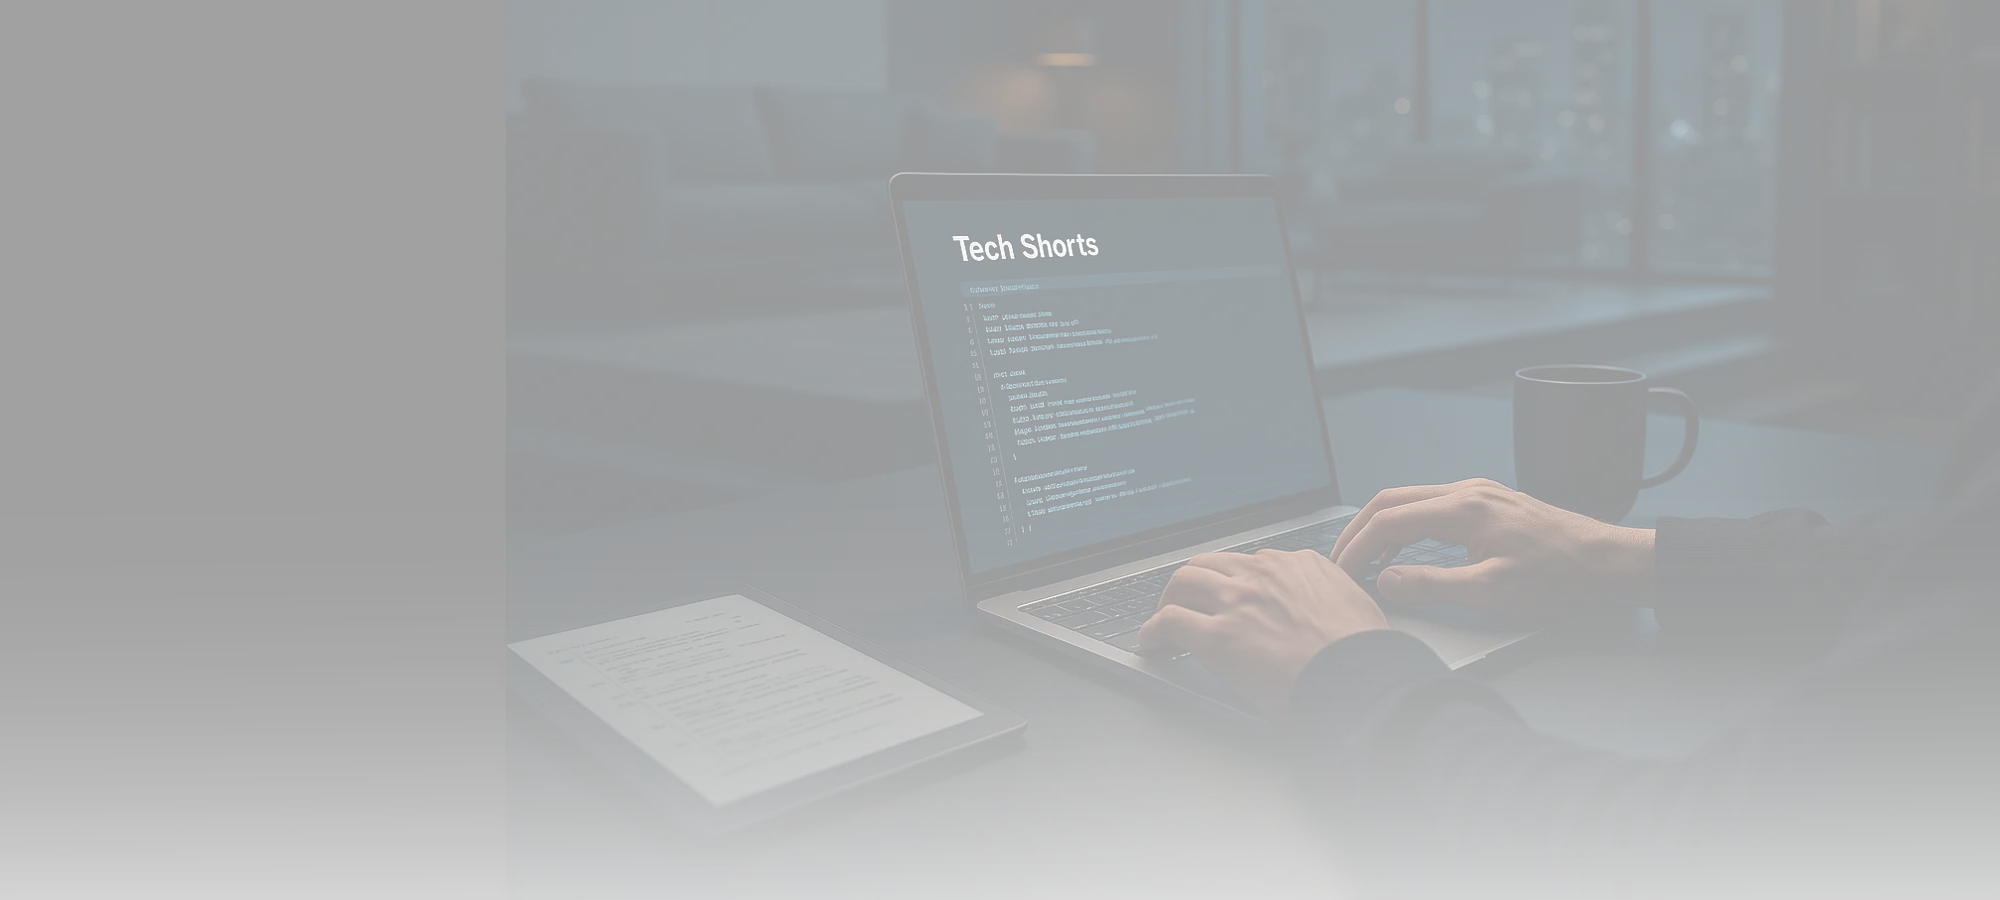
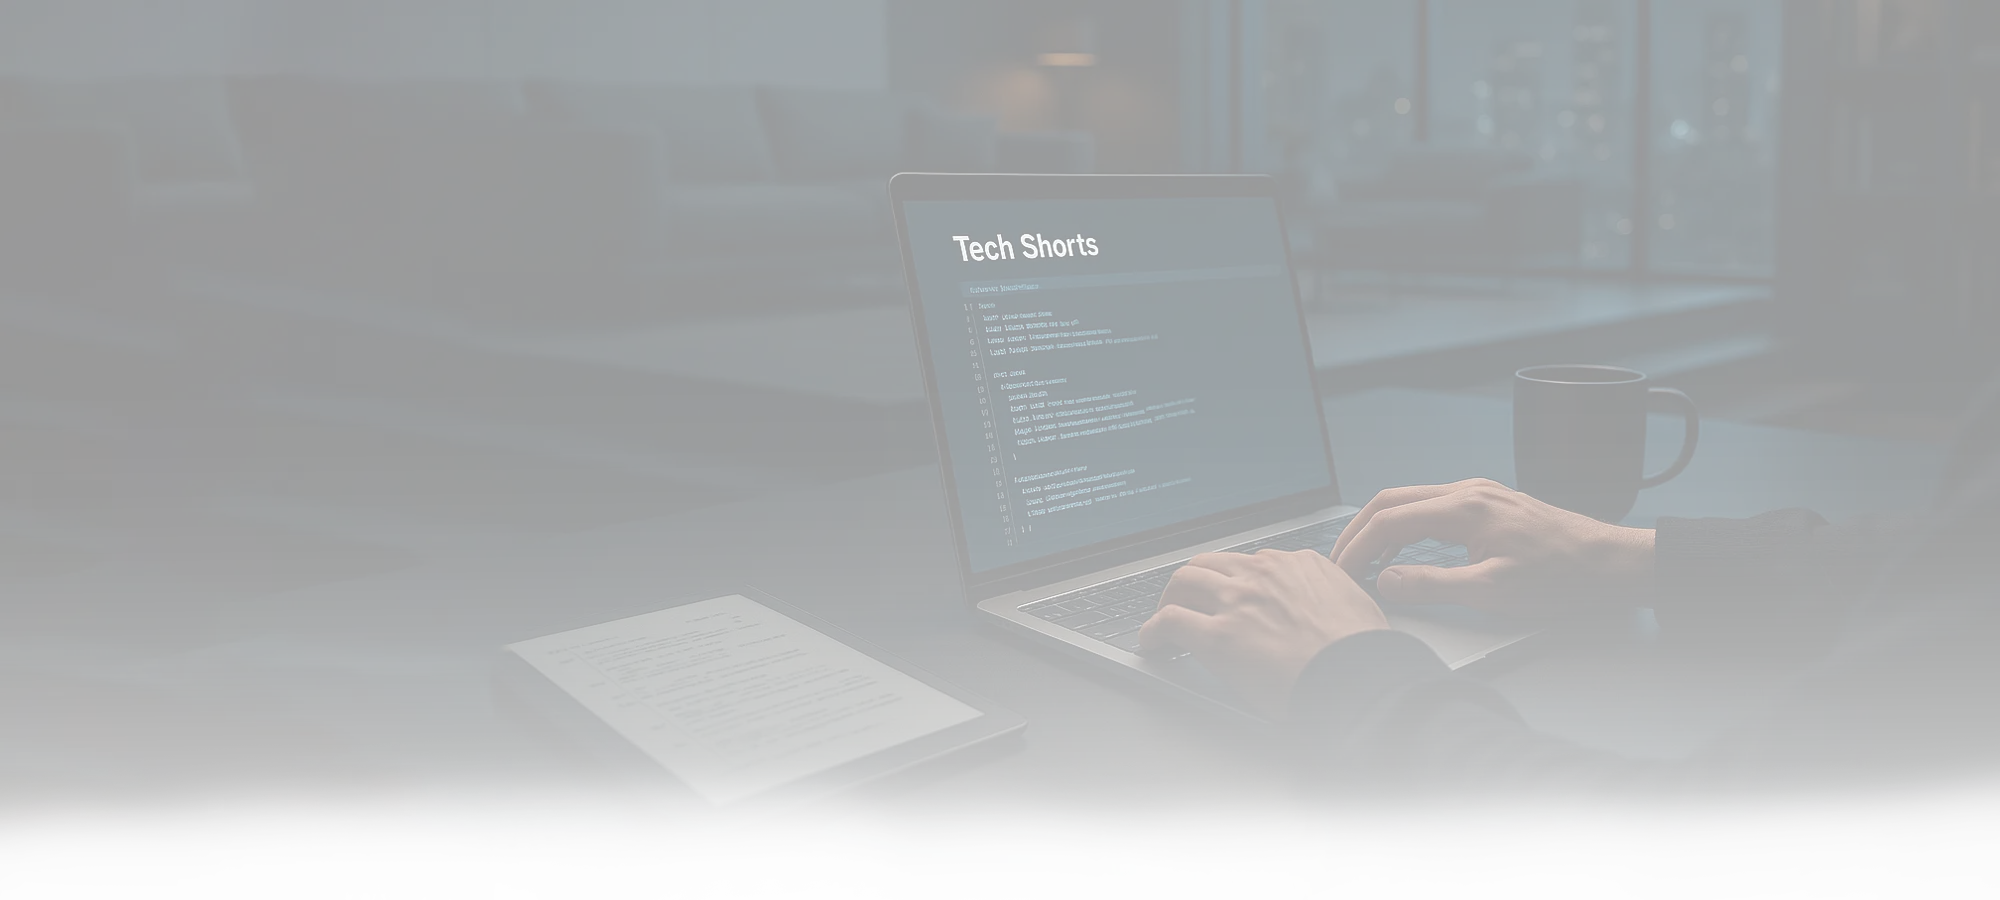
feat(post): add ShareButton component and integrate in SinglePostPage
Changes to be committed:
	modified:   src/assets/techShortsPage.webp
	modified:   src/features/layout/styles/Layout.scss
	new file:   src/features/post/components/ShareButton.tsx
	modified:   src/features/post/pages/SinglePostPage.tsx
	new file:   src/features/post/styles/ShareButton.scss
	modified:   src/features/post/styles/SinglePostPage.scss

Changed region(s): [[0.0, 0.84, 1.0, 1.0]]

diff --git a/src/features/post/components/ShareButton.tsx b/src/features/post/components/ShareButton.tsx
@@ -1,0 +1,42 @@
+// File: src/features/post/components/ShareButton.tsx
+
+import React from 'react';
+import { FiShare2 } from 'react-icons/fi';
+import { useTranslation } from 'react-i18next';
+import '../styles/ShareButton.scss';
+
+interface ShareButtonProps {
+  url: string;
+  className?: string;
+}
+
+export const ShareButton: React.FC<ShareButtonProps> = ({ url, className = '' }) => {
+  const { t } = useTranslation();
+
+  const handleShare = async () => {
+    try {
+      if (navigator.share) {
+        await navigator.share({
+          title: document.title,
+          url,
+        });
+      } else {
+        await navigator.clipboard.writeText(url);
+        alert(t('post.share.copied', 'Link copied to clipboard'));
+      }
+    } catch (err) {
+      console.error('Share failed:', err);
+      alert(t('post.share.error', 'Failed to share'));
+    }
+  };
+
+  return (
+    <button
+      type='button'
+      className={`${className}`}
+      onClick={handleShare}
+      aria-label={t('post.share.buttonAria', 'Share this article')}>
+      <FiShare2 />
+    </button>
+  );
+};

diff --git a/src/features/post/pages/SinglePostPage.tsx b/src/features/post/pages/SinglePostPage.tsx
@@ -11,6 +11,7 @@ import axios from '../../../shared/utils/axios';
 import { Post, PostTranslation } from '../../../shared/types/Post';
 import { getAvatar } from '../../../shared/utils/getAvatar';
 import { BookmarkButton } from '../components/BookmarkButton';
+import { ShareButton } from '../components/ShareButton';
 import Comments from '../components/Comments';
 import { ReactionButtons } from '../components/ReactionButtons';
 import { getPostTranslation, getCategoryName, getTagName } from '../../../shared/utils/i18nHelpers';
@@ -116,6 +117,7 @@ export const SinglePostPage = () => {
               </div>
             </div>
             <BookmarkButton postId={post._id} className='single-post-page__bookmark-button' />
+            <ShareButton url={window.location.href} className='single-post-page__share-button' />
           </div>
           <div className='single-post-page__header-image'>
             {post.image && (

diff --git a/src/features/post/styles/ShareButton.scss b/src/features/post/styles/ShareButton.scss
@@ -1,0 +1,17 @@
+// File: src/features/post/components/ShareButton.scss
+
+.single-post-page__share-button {
+  background: none;
+  border: none;
+  cursor: pointer;
+  font-size: 1.25rem;
+  padding: 0.5rem;
+  display: inline-flex;
+  align-items: center;
+  justify-content: center;
+  color: inherit;
+
+  &:hover {
+    opacity: 0.8;
+  }
+}

diff --git a/src/features/post/styles/SinglePostPage.scss b/src/features/post/styles/SinglePostPage.scss
@@ -61,8 +61,14 @@
   }
   &__bookmark-button {
     position: absolute;
-    top: 0;
+    top: 0.4rem;
     right: 0;
+    z-index: 2;
+  }
+  &__share-button {
+    position: absolute;
+    top: 0;
+    right: 2rem;
     z-index: 2;
   }
   &__header-image {

diff --git a/src/features/layout/styles/Layout.scss b/src/features/layout/styles/Layout.scss
@@ -20,7 +20,7 @@
     padding: 2rem 0;
     width: 100%;
     max-width: var(--layout-max-width);
-    margin: 10% auto;
+    margin: 4% auto;
     padding-left: var(--layout-padding-x);
     padding-right: var(--layout-padding-x);
 
